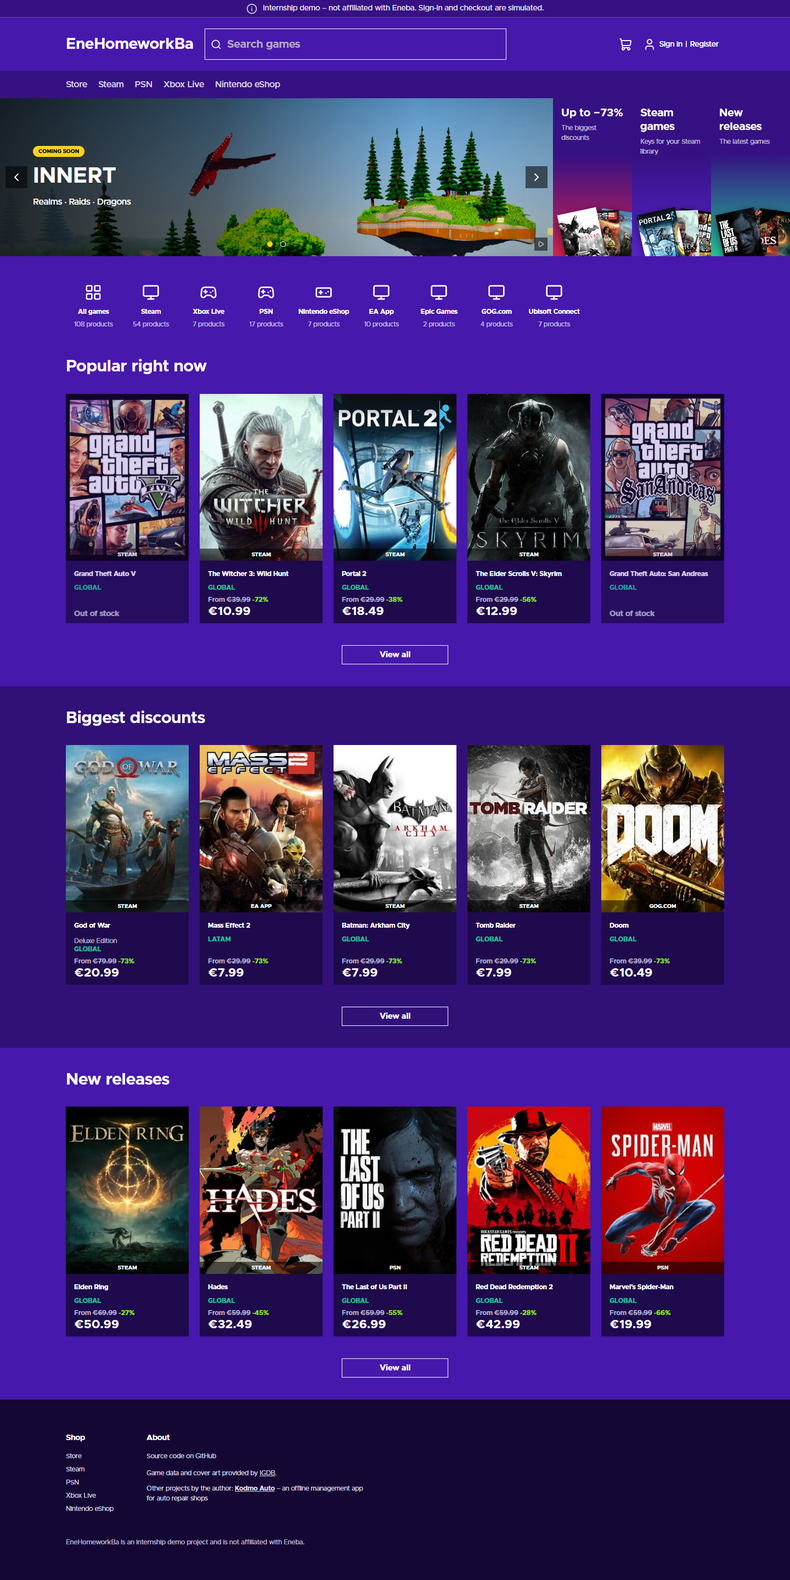
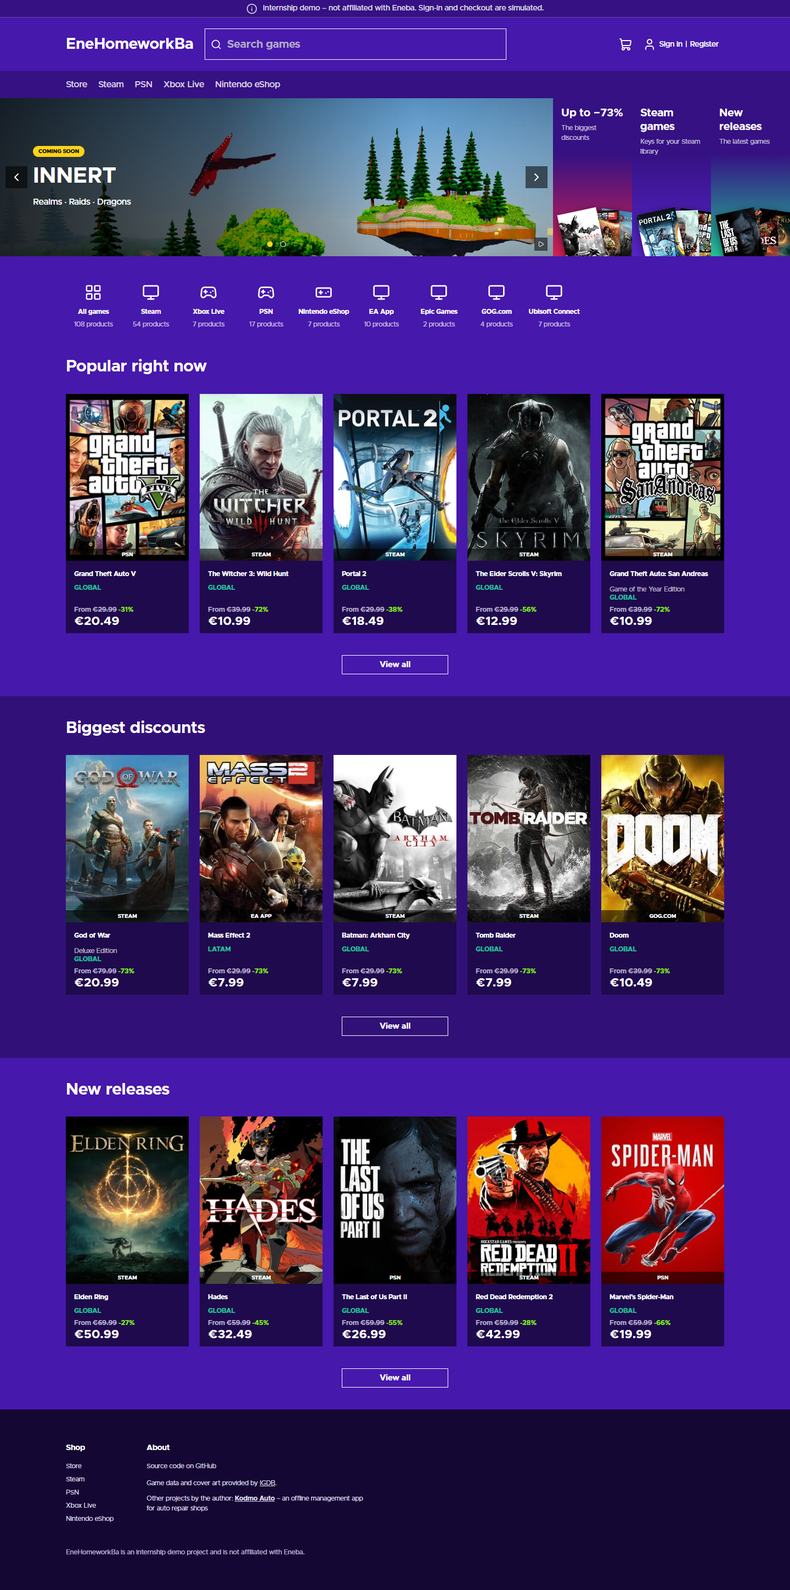
Task 20: DATA_MODEL, DESIGN, PAAISKINIMAI_LT, README test counts, screenshots and report - in-stock rows

diff --git a/docs/reports/TASK_20_home_rows_readme.md b/docs/reports/TASK_20_home_rows_readme.md
@@ -1,4 +1,4 @@
-# Task 20 – One card per game in the home rows + README notes from the audit
+# Task 20 – One card per game (in stock only) in the home rows + README notes from the audit
 
 Branch `task/20-home-rows-readme` (from `main` after PR #22). Task file: [`docs/tasks/TASK_20_home_rows_readme.md`](../tasks/TASK_20_home_rows_readme.md).
 
@@ -8,13 +8,13 @@ Branch `task/20-home-rows-readme` (from `main` after PR #22). Task file: [`docs/
 |---|---|
 | `pkg/catalog/types.go` | `Item` gets `GameID int64` with `json:"-"` (internal, not in the API response) |
 | `pkg/catalog/store.go` | the listing query selects `products.game_id` (CTE `base` → `page` → final SELECT) and `ListProducts` scans it into `Item.GameID` |
-| `pkg/homepage/service.go` | `ProductRow` asks the catalog for `catalog.MaxPageSize` items and calls the new `onePerGame(items, limit)`: first item per game, in the given order, cut to `limit`, never `nil` |
-| `pkg/homepage/service_test.go` | `TestProductRow_usesTheBlockConfig` adjusted (bigger page asked for) + 5 new tests (see §2) |
-| `pkg/homepage/store_integration_test.go` | the product-rows integration test now rebuilds the expected row from the whole listing by game id, and fails when a title appears twice in a row |
+| `pkg/homepage/service.go` | `ProductRow` asks the catalog for `catalog.MaxPageSize` items and calls the new `onePerGame(items, limit)`: skips out-of-stock items, then keeps the first remaining item per game, in the given order, cut to `limit`, never `nil` (owner's answer to open question 2, see §6) |
+| `pkg/homepage/service_test.go` | `TestProductRow_usesTheBlockConfig` adjusted (bigger page asked for) + 7 new tests (5 for one-per-game, 2 for in-stock only); the old items are marked `InStock: true` |
+| `pkg/homepage/store_integration_test.go` | the product-rows integration test now rebuilds the expected row from the whole listing (in-stock products only, first per game, by game id), and fails when a title appears twice or a card is out of stock |
 | `pkg/catalog/store_integration_test.go` | new `TestListProducts_gameIDIdentifiesTheGame` |
 | `pkg/catalog/types_test.go` (new) | `TestItem_gameIDIsNotSentToTheFrontend` |
 | `README.md` | the four places of the task (logs, sellers, homepage clause, "Before the planning chat" wording) + test counts |
-| `docs/DATA_MODEL.md`, `docs/DESIGN.md`, `docs/PAAISKINIMAI_LT.md` | the home rows are described as "one card per game"; new Lithuanian section for the interview |
+| `docs/DATA_MODEL.md`, `docs/DESIGN.md`, `docs/PAAISKINIMAI_LT.md` | the home rows are described as "in stock only, one card per game"; new Lithuanian section for the interview |
 | `docs/screenshots/task20-home-rows-{desktop,mobile}.png` | full-page home at 1440 and 390 px |
 | `docs/tasks/TASK_20_home_rows_readme.md` | the task file, verbatim (first commit) |
 
@@ -26,28 +26,28 @@ No migration, no seed, no schema change, no frontend change, no new dependency.
 |---|---|
 | `gofmt -l .` | prints nothing |
 | `go build ./...`, `go vet ./...` | pass |
-| `go test ./...` | pass. `go test -json`: **233 top-level tests** (157 pass, 76 skip locally = database integration tests, `TEST_DATABASE_URL` is empty; CI runs them), **447 subtests**, 0 failures |
+| `go test ./...` | pass. `go test -json`: **235 top-level tests** (159 pass, 76 skip locally = database integration tests, `TEST_DATABASE_URL` is empty; CI runs them), **447 subtests**, 0 failures |
 | `npm run lint`, `npm test` (PowerShell), `npm run build` | pass; 628 frontend tests in 50 files (unchanged) |
-| TDD | the tests were written first and did not compile (no `GameID`). After the implementation, a mutation check (the "already seen" test switched off) made 3 of the new unit tests fail, so they do catch the bug |
-| Live check, local stack against Neon `dev` (`cmd/local` + Vite, both on 127.0.0.1) | `popular`, `discounts`, `new-releases`: **5 cards each, 5 different games each**; the JSON has no game id. Screenshots: `docs/screenshots/task20-home-rows-desktop.png` (1440 px) and `-mobile.png` (390 px): no repeated cover in any row |
+| TDD | the one-per-game tests were written first and did not compile (no `GameID`); after the implementation, a mutation check (the "already seen" test switched off) made 3 of them fail. The in-stock tests were also written first: with the old code both failed (an out-of-stock version was shown, an all-out-of-stock catalog gave a row), after the change they pass |
+| Live check, local stack against Neon `dev` (`cmd/local` + Vite, both on 127.0.0.1) | `popular`, `discounts`, `new-releases`: **5 cards each, 5 different games each, every card `inStock: true`**; the JSON has no game id. After the in-stock change GTA V is shown by its PSN version (the Steam one is out of stock) and "Grand Theft Auto: San Andreas" by its in-stock version. Screenshots (retaken after the change): `docs/screenshots/task20-home-rows-desktop.png` (1440 px) and `-mobile.png` (390 px): no repeated cover, no "Out of stock" card, every card has a price and an Add to cart button |
 | axe-core 4.14.1 (wcag2a/2aa/21a/21aa/best-practice, reduced motion) on `/` | **0 violations at 1440 px and 0 at 390 px** |
 | CI (PR #23, commit `216d35a`) | **green**: `go` 56 s, `frontend` 41 s, `migrations` 52 s (every migration Up/Down/Up, then the database integration tests on the real Postgres seed, including the new row and `GameID` tests), Vercel Preview deployed |
 
 **A bug found only by the live check.** My first commit added `game_id` to the SQL but a scripted edit missed the `Scan` call, so the query returned 18 columns and the code read 17: `catalog: scan item: number of field descriptions must equal number of destinations` and all three rows answered `500`. Unit tests use a fake catalog and the DB tests cannot run locally (no Postgres), so only the real stack showed it. Fixed in the next commit (`5a467d3`). CI's `migrations` job runs the real-Postgres tests (every Store test would have failed on this), so it would also have caught it.
 
-**Test counts.** README says 233 Go test functions (157 + 76) and 447 subtests. The subtest number is 447 on `main` too: the 445 in the Task 18 report was already out of date before this task, so only the function counts (226 → 233: +5 unit tests in `service_test.go`, +1 unit test in `types_test.go`, +1 integration test) are new in this task. Frontend 628 is unchanged.
+**Test counts.** README says 235 Go test functions (159 + 76) and 447 subtests. The subtest number is 447 on `main` too: the 445 in the Task 18 report was already out of date before this task, so only the function counts (226 → 235: +7 unit tests in `service_test.go`, +1 unit test in `types_test.go`, +1 integration test) are new in this task. Frontend 628 is unchanged.
 
 ## 3. What the owner must do manually
 
 1. Review the PR and merge when CI is green (no migration, so no pre-merge production step).
 2. After the deploy, open the production home page: no game repeated in any row (Popular right now, Biggest discounts, New releases); each row has 5 cards.
-3. Run `/export` for this session and put the log in `ai-logs/` (I cannot run `/export`; the log is not committed yet). The README still says 23 log files / 25 tasks / 22 PRs, as the task said to change only the test counts (see §6).
+3. The README still says 23 log files / 25 tasks / 22 PRs / 254 commits. By the owner's decision they are updated in the very last task, together with the final planning-chat link (§6).
 
 ## 4. Plain-language explanation (for the interview)
 
 **What was wrong.** One game is sold as several products: GTA V on Steam, on PSN, "Premium". The home rows took the first 5 products of a sort. The sort puts versions of one popular game side by side, so "Popular right now" showed GTA V three times. That is the first thing a reviewer sees.
 
-**What changed.** Only the three home rows. The API asks the catalog for a big page (48, the most it allows), walks through it, keeps the first product of every game it has not shown yet, and stops at 5. The Store, search, tiles, platforms and hero are untouched.
+**What changed.** Only the three home rows. The API asks the catalog for a big page (48, the most it allows), walks through it, skips products that are out of stock, keeps the first remaining product of every game it has not shown yet, and stops at 5. The Store, search, tiles, platforms and hero are untouched.
 
 **Why on the backend, not in the frontend.**
 - The frontend only gets 5 cards. If it hid one repeat it would have 4 and nothing to fill the gap with; the full list is only on the server, which can drop repeats first and cut to 5 afterwards.
@@ -58,7 +58,9 @@ No migration, no seed, no schema change, no frontend change, no new dependency.
 
 **Why the first version in the row's sort order.** No new rule was needed: each row already has an order (most popular, biggest discount, newest). The first product of a game in that order is exactly the one that would have been on top anyway, so "Biggest discounts" shows the version with the biggest discount, and so on. The row is also honest: if the catalog had only 3 games, it shows 3 cards and never repeats a game to fill the gap.
 
-**One thing to know if asked.** The version that stays is chosen by the row's sort only. On `dev`, the first GTA V version in "Popular right now" is out of stock, so its card says "Out of stock" (the popularity sort does not look at stock). That is the same card the Store shows first for that sort, and the owner's decision was not to add sort rules.
+**Why out-of-stock products are skipped BEFORE the one-per-game step (owner's decision).** A home card that says "Out of stock" is a dead end for a shopper, so the home rows show only what can be bought. The order matters: if the game were marked "seen" by its out-of-stock first version, its in-stock versions would be thrown away as repeats and the game would vanish. Skipping first means a game is shown by its first IN-STOCK version (GTA V → the PSN one), and a game with nothing in stock is not shown at all. Only the home rows are filtered; the Store, search and the product page still show everything, with the "Out of stock" state.
+
+**If the window is not enough.** The 48-item window is the most the catalog returns in one query. In the seed 11 of 108 products are out of stock, so every row still finds 5 different in-stock games (checked live and by the integration test). If a catalog ever had fewer than 5 such games in the first 48, the row would be shorter, never filled with repeats.
 
 **Performance question.** Asking for 48 instead of 5 uses the same query (same sort, same `LIMIT`), with up to 48 rows and their cheapest offers instead of 5; with 108 products it is one round trip, and the home endpoints are cached.
 
@@ -66,13 +68,13 @@ No migration, no seed, no schema change, no frontend change, no new dependency.
 
 ## 5. Deviations from the task and why
 
-- None in behaviour. Additions inside "tests first": `TestProductRow_sameTitleDifferentGameIsNotARepeat`, `..._emptyCatalogGivesAnEmptyRowNotNull`, `..._cutsToTheLimitAfterRemovingRepeats`, `TestItem_gameIDIsNotSentToTheFrontend`, `TestListProducts_gameIDIdentifiesTheGame`.
+- Behaviour follows the task and then the owner's answer to open question 2 (in-stock only), which was a change after the first PR. Additions inside "tests first": `TestProductRow_sameTitleDifferentGameIsNotARepeat`, `..._emptyCatalogGivesAnEmptyRowNotNull`, `..._cutsToTheLimitAfterRemovingRepeats`, `TestItem_gameIDIsNotSentToTheFrontend`, `TestListProducts_gameIDIdentifiesTheGame`.
 - Screenshots are full-page (1440 × 2880 and 390 × 3623), so all three rows are visible in one image; the 2.2 MB desktop PNG is the biggest file in `docs/screenshots/`.
 
 ## 6. Open questions
 
-1. The README still says **25 tasks, 22 pull requests, 254 commits on `main` before Task 19, 23 log files**. The task asked to update only the test counts, so I left them. After this PR they will be one behind (23 PRs, 24 logs once this session is exported). Should the next README touch update them?
-2. The seed has **GTA V Steam out of stock**, so the first card of "Popular right now" says "Out of stock". It is the owner's rule ("first in the row's sort order") and I did not change it. If it should show an in-stock version, that needs a new sort rule (a different task).
+1. **README counts (tasks, PRs, commits, logs):** owner's answer – leave them for now; they are updated in the very last task together with the final planning-chat link. (Test counts are still kept current: 235 / 447 / 628.)
+2. **GTA V "Out of stock" in Popular right now:** owner's answer – the home product rows show only products that are in stock. Implemented as asked: out-of-stock items are skipped before the one-per-game step; the Store is unchanged. (A row can only be shorter than 5 if fewer than 5 games have an in-stock version among the first 48 listed; not the case on the seed.)
 
 ## 7. Self-review (output of the `task-reviewer` subagent, run before this report; 6 commits at that time)
 

diff --git a/docs/PAAISKINIMAI_LT.md b/docs/PAAISKINIMAI_LT.md
@@ -1029,11 +1029,12 @@ Trumpi atsakymai į labiausiai tikėtinus klausimus (2–4 sakiniai); nuoroda ve
 - **Kas buvo:** Microsoft Edge į kiekvieną `type="password"` lauką pats įdeda savo „rodyti slaptažodį" mygtuką. Mūsų `PasswordField` turi savo mygtuką, todėl Edge'e matėsi dvi akys šalia viena kitos. Rasta Task 19 produkcijos patikroje (headless Edge ekrano nuotrauka).
 - **Pataisa:** `.input::-ms-reveal { display: none; }` – paslepia tik Edge'o mygtuką; kitos naršyklės tokio neturi, todėl joms niekas nesikeičia.
 
-## Viena kortelė žaidimui pagrindinio puslapio eilutėse (`pkg/homepage/service.go` → `ProductRow`, `onePerGame`; `catalog.Item.GameID`)
+## Viena kortelė žaidimui ir tik turimos prekės pagrindinio puslapio eilutėse (`pkg/homepage/service.go` → `ProductRow`, `onePerGame`; `catalog.Item.GameID`)
 - **Kas buvo:** „Popular right now" rodė GTA V tris kartus (Steam, PSN, GOTY), Witcher 3 – du. Tas pats žaidimas parduodamas keliais produktais (platforma × leidimas), o rikiavimas pagal populiarumą juos sustato šalia. Kitos eilutės kartojosi panašiai. Tai pirmas dalykas, kurį mato peržiūrėtojas.
-- **Ką daro dabar:** `GET /api/blocks/products/{key}` paprašo katalogo **didžiausio puslapio** (`catalog.MaxPageSize` = 48), palieka **pirmą** kiekvieno žaidimo produktą (`onePerGame`) ir nukerpa iki `limit` (5). Jei žaidimų yra mažiau nei `limit`, eilutė trumpesnė – žaidimas niekada nekartojamas, kad užpildytų vietą. „View all" nuorodos nepasikeitė. Keičiasi **tik** pagrindinio puslapio eilutės; Store, paieška, plytelės, platformos ir herojus – kaip buvo.
+- **Ką daro dabar:** `GET /api/blocks/products/{key}` paprašo katalogo **didžiausio puslapio** (`catalog.MaxPageSize` = 48), **praleidžia produktus be sandėlio** (`InStock == false`), palieka **pirmą likusį** kiekvieno žaidimo produktą (`onePerGame`) ir nukerpa iki `limit` (5). Taigi jei populiariausia žaidimo versija išparduota, rodoma pirma versija, kurią galima nusipirkti; žaidimas be nė vienos turimos versijos neberodomas. Jei žaidimų yra mažiau nei `limit`, eilutė trumpesnė – žaidimas niekada nekartojamas, kad užpildytų vietą. „View all" nuorodos nepasikeitė. Keičiasi **tik** pagrindinio puslapio eilutės; Store, paieška, plytelės, platformos ir herojus – kaip buvo.
 - **Kodėl backend'e, o ne frontend'e:** frontend'as gauna tik 5 kortelių, todėl jis jau nebegalėtų „pridėti" šeštos, kai viena iškrenta – eilutė liktų trumpa. Be to, taisyklė „viena kortelė žaidimui" yra turinio, o ne piešimo taisyklė, o užduotis sako, kad frontend'as tik rodo tai, ką gauna. Backend'as turi visą sąrašą ir gali nukirpti tik pabaigoje.
+- **Kodėl pirma praleidžiami išparduoti, o tik tada „viena kortelė žaidimui":** jei tvarka būtų atvirkštinė, išparduota pirmoji versija „užimtų" žaidimą (jis būtų pažymėtas kaip jau matytas), o turima versija iškristų – žaidimas visai dingtų iš eilutės. Savininko sprendimas (Task 20, atsakymas į atvirą klausimą): pagrindiniame puslapyje nerodyti „Out of stock" kortelių (iki tol GTA V rodė „Out of stock"); Store puslapis nesikeičia ir rodo viską.
 - **Kodėl pagal žaidimo ID, o ne pagal pavadinimą:** dviejų skirtingų žaidimų pavadinimai gali sutapti, o to paties žaidimo pavadinimas – skirtis (rašyba, leidimo priedas). `products.game_id` yra tikrasis „tas pats žaidimas". Jį atiduoda ta pati Store užklausa, bet laukas `GameID` turi `json:"-"`, todėl **API atsakymas nepasikeitė** (testas `TestItem_gameIDIsNotSentToTheFrontend`).
 - **Kodėl lieka pirmoji versija pagal eilutės rikiavimą:** jokių naujų taisyklių. Populiariausių eilutėje – populiariausia versija, nuolaidų – su didžiausia nuolaida, naujienų – naujausia. Taigi kortelė, kuri lieka, yra ta pati, kuri ir taip būtų buvusi pirma Store sąraše su tuo pačiu rikiavimu.
-- **Testai:** `service_test.go` su netikru katalogu (pasikartojimai pašalinti, tvarka išlikusi, pirma versija paliekama, mažiau žaidimų nei `limit`, to paties pavadinimo skirtingi žaidimai nelaikomi pasikartojimu, tuščias katalogas = `[]`); integracinis testas – nė vienas žaidimas dvi kartus nė vienoje eilutėje, kiekviena eilutė seed'e vis dar turi 5 korteles.
-- **Gali paklausti:** „Ar nebus lėčiau, kai prašoma 48 vietoj 5?" – ne: ta pati užklausa, ta pati kaina (rikiavimas ir `LIMIT`), papildomai ištraukiama iki 48 eilučių ir jų pigiausias pasiūlymas; produktų yra 108, viskas viename kelyje į DB, atsakymas keshuojamas. „O jei katalogas pasikeis ir žaidimų bus mažiau nei 5?" – eilutė bus trumpesnė, o ne su pasikartojimais.
+- **Testai:** `service_test.go` su netikru katalogu (pasikartojimai pašalinti, tvarka išlikusi, pirma versija paliekama, mažiau žaidimų nei `limit`, to paties pavadinimo skirtingi žaidimai nelaikomi pasikartojimu, tuščias katalogas = `[]`); išparduotos versijos praleidžiamos prieš „viena kortelė žaidimui" žingsnį (žaidimas rodomas pirma turima versija, žaidimas be turimų versijų – nerodomas, visi išparduoti = `[]`); integracinis testas – nė vienas žaidimas dvi kartus nė vienoje eilutėje, nė vienos išparduotos kortelės, kiekviena eilutė seed'e vis dar turi 5 korteles.
+- **Gali paklausti:** „Ar nebus lėčiau, kai prašoma 48 vietoj 5?" – ne: ta pati užklausa, ta pati kaina (rikiavimas ir `LIMIT`), papildomai ištraukiama iki 48 eilučių ir jų pigiausias pasiūlymas; produktų yra 108, viskas viename kelyje į DB, atsakymas keshuojamas. „O jei katalogas pasikeis ir žaidimų bus mažiau nei 5?" – eilutė bus trumpesnė, o ne su pasikartojimais. „Ar 48 eilučių užtenka, kai dalis išparduota?" – seed'e išparduota 11 iš 108, todėl tarp pirmų 48 visada yra bent 5 skirtingi turimi žaidimai (patikrinta integraciniu testu: kiekviena eilutė turi 5); jei kada neužtektų, eilutė būtų trumpesnė, ne su pasikartojimais.

diff --git a/docs/DATA_MODEL.md b/docs/DATA_MODEL.md
@@ -416,12 +416,13 @@ source** (`pkg/homepage`): the hero reads `homepage_slides` (+ live prices from 
 (+ cover images from the catalog), the platform row and the product rows read only the catalog. The frontend has one
 renderer per block **type** and no content of its own.
 
-**One card per game in a product row (Task 20).** The same game is sold in several products (GTA V on Steam, on PSN, "Premium"), so the plain
+**One in-stock card per game in a product row (Task 20).** The same game is sold in several products (GTA V on Steam, on PSN, "Premium"), so the plain
 first 5 products of a sort could repeat a game. `GET /api/blocks/products/{key}` therefore asks the catalog for the biggest page
-(`catalog.MaxPageSize`), keeps the FIRST product of each game in the row's own sort order (the most popular / the biggest discount / the newest
-version), and cuts to `limit`; with fewer games than `limit` the row is shorter, a game is never repeated to fill it. The games are told apart by
+(`catalog.MaxPageSize`), SKIPS the products that are out of stock, keeps the FIRST remaining product of each game in the row's own sort order (the most
+popular / the biggest discount / the newest in-stock version), and cuts to `limit`. A game whose top version is out of stock is shown by its first in-stock
+version; a game with no version in stock is not shown. With fewer such games than `limit` the row is shorter, a game is never repeated to fill it. The games are told apart by
 `products.game_id` (`catalog.Item.GameID`, `json:"-"`: internal, not in the API response), never by title text. Only these rows change; the Store,
-search, tiles and platforms still list every product. No schema change.
+search, tiles and platforms still list every product, out-of-stock ones included. No schema change.
 
 **The content rows are inserted by the migration, not by `cmd/seed`** (owner decision): the catalog seed and its golden
 checksum stay unchanged, and production needs no reseed (`seed --reset` refuses once orders exist). `seed --reset` only
@@ -479,7 +480,7 @@ CHECKs: `homepage_slides_one_target` (not both `product_slug` and `cta_href`) an
 | `hero` (10) | hero | 1. **Innert** (a friend's game in development, art used with permission): badge "Coming soon", no button, WebP files in `public/banners/`. 2. Grand Theft Auto V and 3. The Witcher 3 (the two most popular in-stock games): IGDB artworks `ar6d9m` / `ar3lze`, "Buy now" → product page |
 | `tiles` (20) | tiles | "Up to −{maxDiscount}%" (live, e.g. "Up to −73%") → `/store?sort=discount`, "Steam games" → `/store?platform=steam`, "New releases" → `/store?sort=newest` |
 | `platforms` (30) | platforms | "All games" + every platform with products; generic lucide icon names |
-| `popular` (40), `discounts` (50), `new-releases` (60) | product_row | 5 cards (one per game: the first product of each game in that sort) by popularity / discount / newest; "View all" → `/store`, `/store?sort=discount`, `/store?sort=newest` |
+| `popular` (40), `discounts` (50), `new-releases` (60) | product_row | 5 cards (in-stock only, one per game: the first in-stock product of each game in that sort) by popularity / discount / newest; "View all" → `/store`, `/store?sort=discount`, `/store?sort=newest` |
 
 "Turn a block off" in a database console: `UPDATE homepage_blocks SET enabled = false WHERE key = 'discounts';`
 (locally visible at once; in production within the 5-minute CDN cache).

diff --git a/docs/DESIGN.md b/docs/DESIGN.md
@@ -371,7 +371,7 @@ desktop >=931 +------------ carousel (1fr) ------------+ tile + tile + tile +  2
   same file as the real width at 1024, 1200, 1440 and 1920.
 - **Tiles:** our own design — text top-left on a token gradient, a fan of up to three catalog covers spilling over the bottom-right corner (rotated 8° / −2° / −12°, lifted 10px on hover/focus).
 - **Platform row:** generic lucide icons chosen by NAME from the block config (no brand logos); an unknown name gets `gamepad-2`.
-- **Product rows:** the Store's `ProductCard` (with Add to cart), **one card per game**: when a game has several versions (platform / edition), only the first one in the row's sort order is shown (decided on the backend, `Service.ProductRow`), so no cover repeats in a row. The Store page itself still shows every version. "View all" is a secondary `ButtonLink` with a hidden ": {row title}", so the three links differ for screen readers.
+- **Product rows:** the Store's `ProductCard` (with Add to cart), **in stock only, one card per game**: out-of-stock products are skipped first, then only the first version of a game in the row's sort order is shown (decided on the backend, `Service.ProductRow`), so no cover repeats in a row and no home card says "Out of stock". A game with no version in stock has no card. The Store page itself still shows every version, out-of-stock ones too. "View all" is a secondary `ButtonLink` with a hidden ": {row title}", so the three links differ for screen readers.
 - **States:** while the registry loads, a hero-sized skeleton in a screen-tall page (the footer stays off screen); each block has its own skeleton of its final size; a failing block shows
   "“Title” could not be loaded." + a secondary Retry in its own slot; a block that crashes while rendering hides itself (error boundary). Registry error = the page ErrorState with Retry; empty registry = EmptyState + "Browse the store".
 - **Not copied / no dead UI:** cashback, wishlist hearts, "Recommended for you" (no personalisation), Eneba's promo art, language/currency, the "Black Friday" countdown popup, gift-card rows.

diff --git a/README.md b/README.md
@@ -127,7 +127,7 @@ Database: [`docs/DATA_MODEL.md`](docs/DATA_MODEL.md) (ER diagram: game → produ
 | `migrations` | every migration Up on a clean Postgres 18, then every Down one by one back to version 0, then Up again; then the **database integration tests** on the deterministic seed (they *fail* instead of skipping when the database is missing) |
 | `frontend` | ESLint, Vitest, TypeScript + production build |
 
-**Tests:** **233 Go test functions** (157 unit tests + 76 database integration tests that run in CI against Postgres) with 447 table-driven subtests, and **628 frontend tests** in 50 files (Vitest + Testing Library). Counted on 2026-11-24.
+**Tests:** **235 Go test functions** (159 unit tests + 76 database integration tests that run in CI against Postgres) with 447 table-driven subtests, and **628 frontend tests** in 50 files (Vitest + Testing Library). Counted on 2026-11-24.
 
 **Lighthouse (mobile)** – default mobile preset: Moto G Power emulation, simulated slow 4G (150 ms RTT, 1.6 Mbps), 4× CPU slowdown; median of 3 runs.
 
